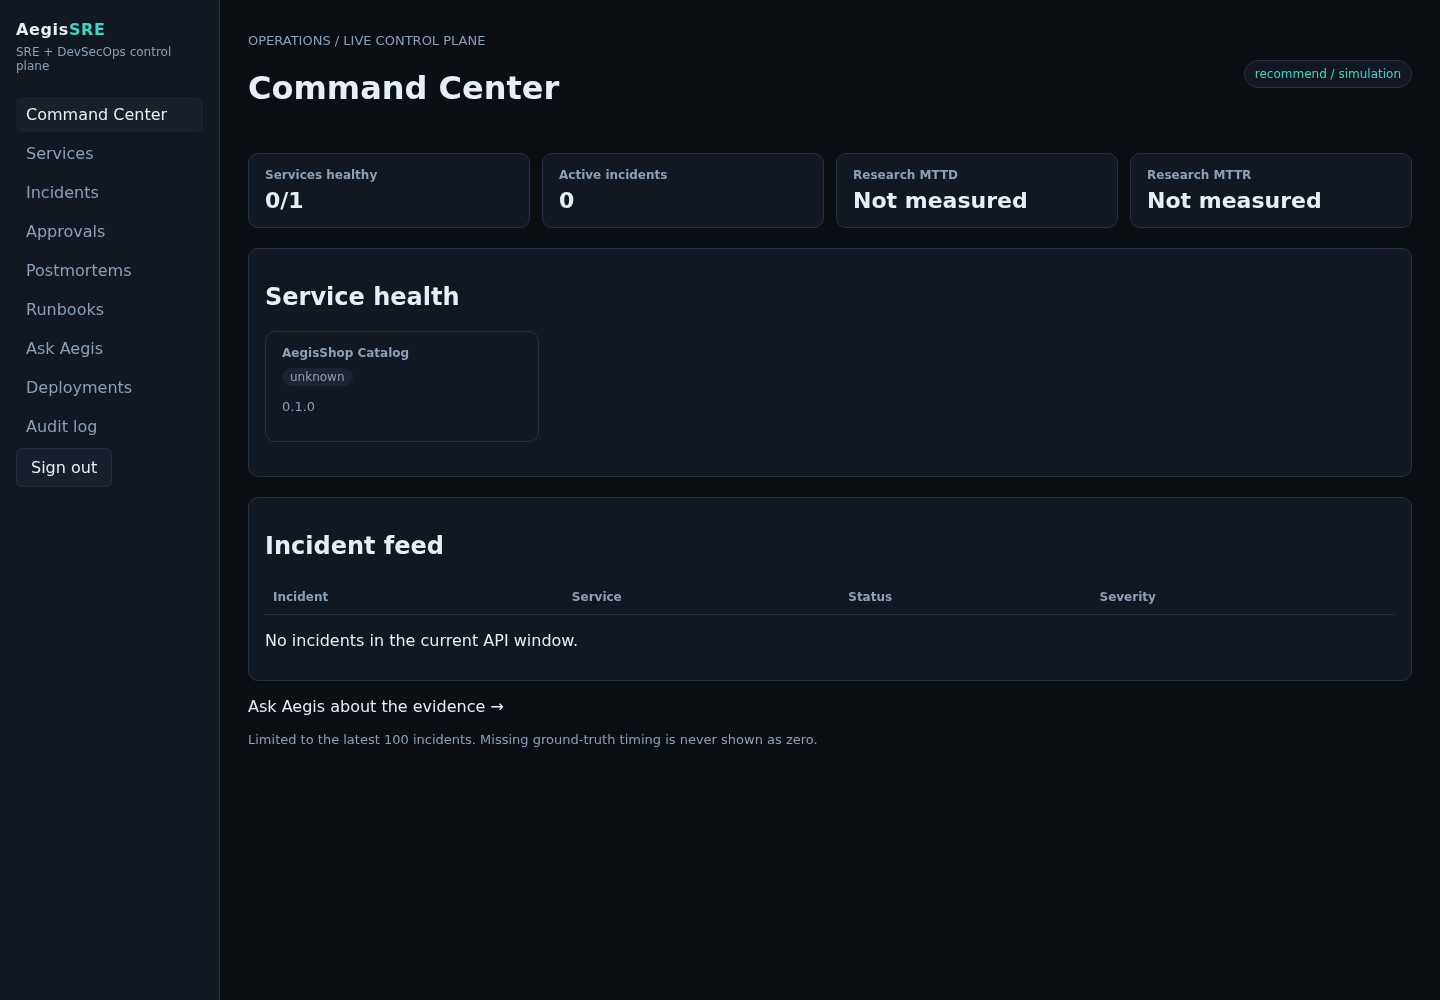
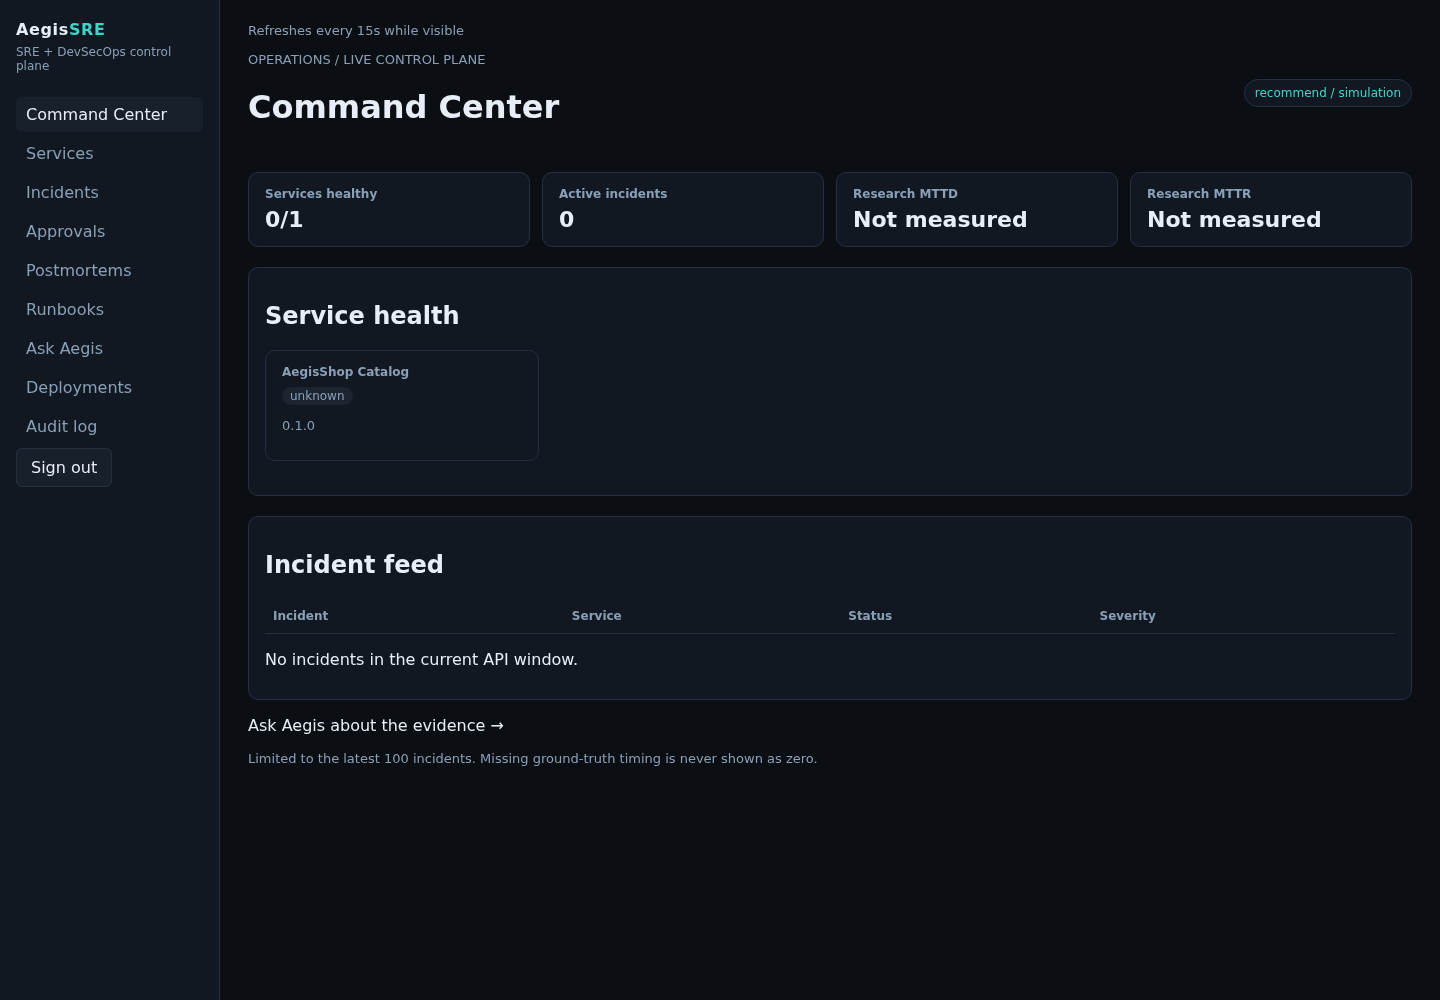
Refresh visible console views from live APIs every fifteen seconds

diff --git a/frontend/app/(console)/layout.tsx b/frontend/app/(console)/layout.tsx
@@ -2,6 +2,7 @@ import { ReactNode } from "react";
 import { redirect } from "next/navigation";
 import { session } from "@/lib/session";
 import { Nav } from "../nav";
+import { Refresh } from "./refresh";
 
 export const dynamic = "force-dynamic";
 export default function ConsoleLayout({ children }: { children: ReactNode }) {
@@ -11,6 +12,6 @@ export default function ConsoleLayout({ children }: { children: ReactNode }) {
     <aside className="side"><div className="brand">Aegis<span>SRE</span></div>
       <p>SRE + DevSecOps control plane</p><Nav />
       <form method="post" action="/api/logout"><input type="hidden" name="csrf" value={current.csrf} /><button>Sign out</button></form>
-    </aside><main className="main">{children}</main>
+    </aside><main className="main"><Refresh />{children}</main>
   </div>;
 }

diff --git a/frontend/app/(console)/refresh.tsx b/frontend/app/(console)/refresh.tsx
@@ -1,0 +1,4 @@
+"use client";
+import {useEffect} from "react";
+import {useRouter} from "next/navigation";
+export function Refresh(){const router=useRouter();useEffect(()=>{const timer=setInterval(()=>{if(document.visibilityState==="visible")router.refresh();},15000);return()=>clearInterval(timer);},[router]);return <span className="muted">Refreshes every 15s while visible</span>;}
